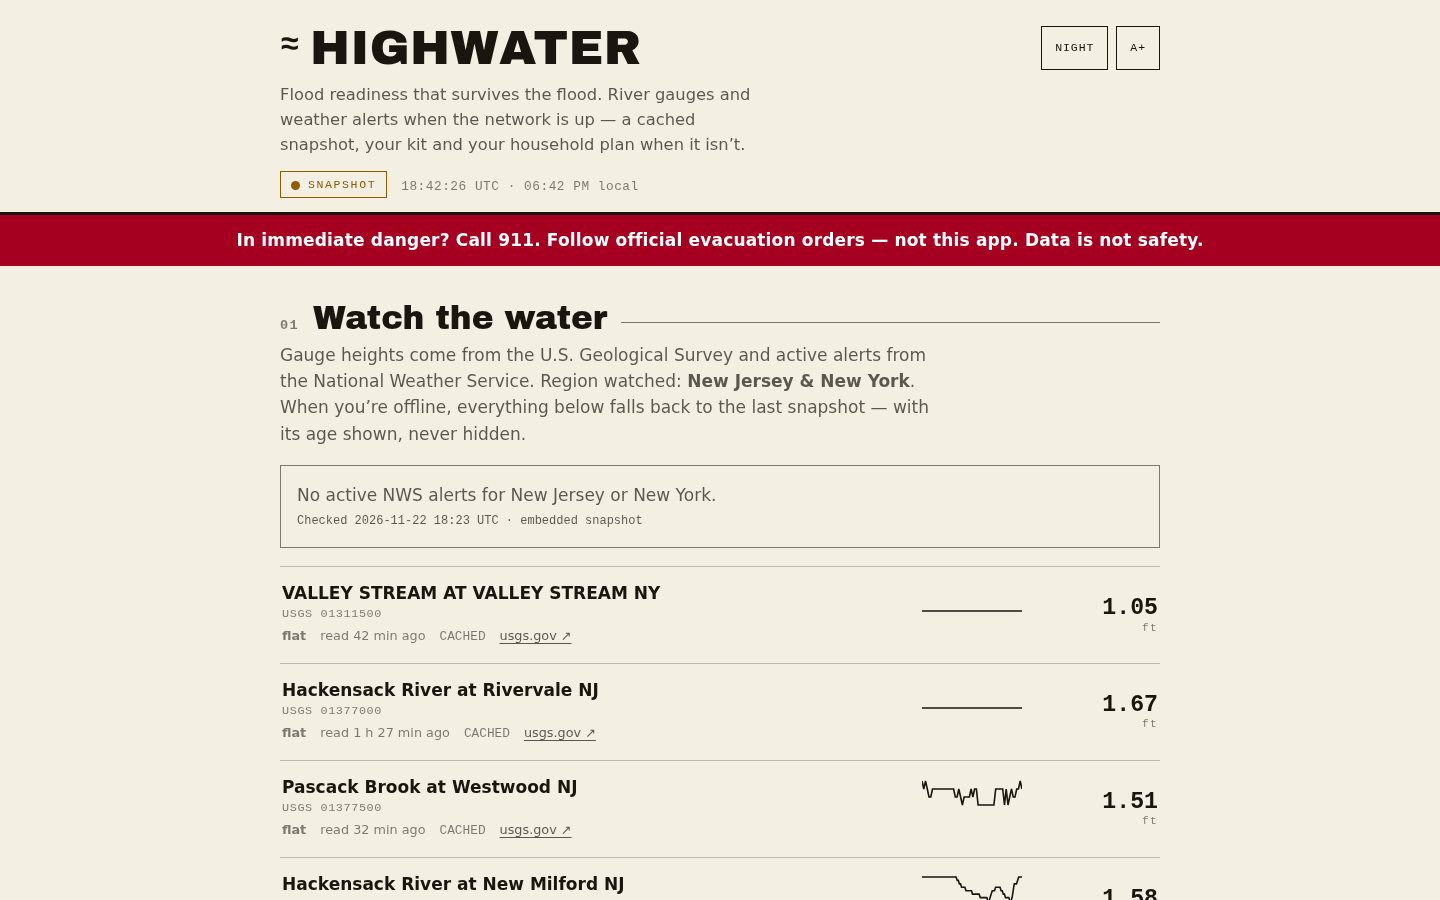
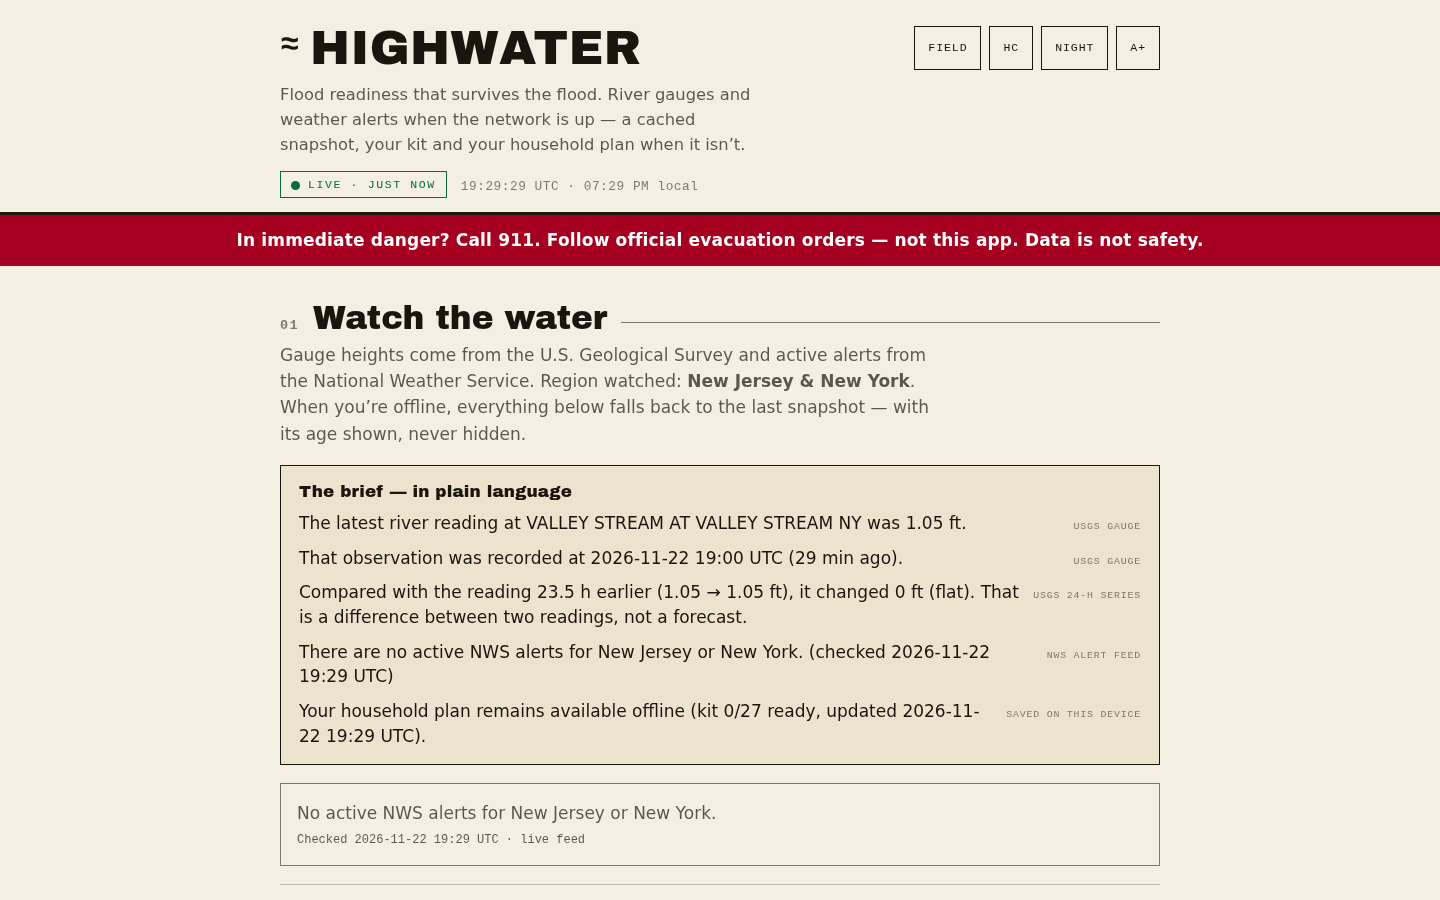
docs + evidence: Run 4 (77/77), live offline-reload verification record, updated screenshots
results.md records the honest sequence: Run 3 (75/75) -> live browser
testing caught the plan-restore bug -> fix -> Run 4 (77/77) with W30/W31.
README matrix updated with verified offline-reload evidence and remaining
gaps. Screenshots: 05-fieldmode, 06-offline-reload, refreshed 01/03.

diff --git a/README.md b/README.md
@@ -71,8 +71,12 @@ public domain data).
   independent inspection, a 10-test regression suite (R1–R10) was added covering
   feed verification and per-gauge liveness: Run 2 is **46/46** (first execution
   45/46 — R2 caught a real gap, the validator was strengthened, re-run passed).
-  The v1.2 competitive upgrades added a 29-test suite (W1–W29): Run 3 is
-  **75/75**, recorded separately. Neither later suite is claimed as part of the
+  The v1.2 competitive upgrades added a 31-test suite (W1–W31): Runs 3–4 are
+  **75/75** then **77/77**, recorded separately. Live browser testing of the
+  deployed site then caught a real bug no engine test could see (the plan form
+  didn't repopulate after an offline reload, since v1.0) — fixed via the
+  `PLAN_FIELDS` mapping, verified with a genuine network-cut reload, and
+  covered by W30/W31. Neither later suite is claimed as part of the
   preregistered run.
 - Real data embedded at build time: snapshot taken 2026-11-22 18:23 UTC.
 
@@ -94,8 +98,8 @@ actual results and judge preferences decide that.
 | --- | --- | --- | --- | --- |
 | WaterMark | Environmental data provenance | Source-and-timestamp on every line: briefing, per-gauge `read X ago`, LIVE/CACHED per gauge, coverage labels for non-NJ/NY gauges, "can/cannot establish" panel | W14–W23 pass | No multi-feed environmental coverage beyond USGS+NWS |
 | Resili-Net | End-to-end humanitarian workflow | Household readiness journey in one page, no registration: contact → meeting place → needs → kit → water target → pocket card → print; persists offline | T4/T6/T7, W24–W29 pass | No multi-agency coordination features (by design) |
-| FindThem | Mobile emergency usefulness | Field Mode: 320px, contact/meeting/needs/water/essentials/saved readings with ages, cached alerts, zero network calls | engine tests + syntax/id checks pass | Not yet verified on a physical phone in a real offline reload |
-| Shelf Check | Published, reproducible tests | `scripts/hw_tests.js` in-repo, three separately recorded runs, pre-registered bars, honest failure history | 75/75 (36/10/29) | No CI pipeline; browser-level (DOM) tests not automated |
+| FindThem | Mobile emergency usefulness | Field Mode: 320px, contact/meeting/needs/water/essentials/saved readings with ages, cached alerts, zero network calls | engine tests + syntax/id checks pass; genuine offline reload verified in a desktop browser (network cut + reload, plan restored — screenshots/06) | Not yet verified on a physical phone |
+| Shelf Check | Published, reproducible tests | `scripts/hw_tests.js` in-repo, four separately recorded runs, pre-registered bars, honest failure history — including a live-testing bug catch | 77/77 (36/10/31) | No CI pipeline; browser-level (DOM) tests not automated |
 | PlainSpeak | Readable, verified language | Plain-language briefing with source on every sentence; unknowns named; failed checks say "could not verify" | W14–W21 pass | No second UI language; no human comprehension review yet |
 | Shortfall | Transparent deterministic arithmetic | Water target shown as a formula with source and limits; exact what-changed math with exact intervals | W1–W13 pass | No additional calculators beyond water |
 | Strobeproof | Accessibility engineering | Keyboard flow incl. Esc/field toggle, focus-visible, 44px targets, HC/night/large-text modes, reduced motion, semantic HTML + live regions | manual audit of the shipped markup | No NVDA/VoiceOver walkthrough or axe-core run yet — not claimed |

diff --git a/results.md b/results.md
@@ -58,4 +58,34 @@ valid). The app-layer script block was also syntax-checked with Node
 the W suite: 29/29, no code changed after the run. The W suite is NOT
 claimed as part of Run 1 or Run 2.
 
+**Run 4 — 2026-11-22 19:37 UTC (v1.2.1, plan-restore fix): 77 passed, 0 failed.**
+
+Live browser testing of the deployed site (agent-browser/Playwright,
+https://mir-ashiq.github.io/highwater/) then caught a real bug the engine
+suite could not see: after an offline reload the plan form came up empty
+even though the plan was correctly saved in localStorage — the restore loop
+indexed `state.plan` by element id (`pName`) while the saved plan stores
+plan keys (`contactName`), and the next keystroke would have overwritten
+the saved plan with the empty form. This bug existed since v1.0. Fixed by
+routing the restore through a single engine mapping, `PLAN_FIELDS`
+(id → plan key), with two new tests: W30 (mapping covers every text input
+with a real plan key) and W31 (the shipped file uses the mapping, not the
+old id-indexed loop). Re-run: **77/77** (preregistered 36/36, regression
+10/10, competitive upgrades 31/31).
+
+Browser verification performed on the deployed v1.2.1, recorded as executed:
+1. Fresh load: v1.2.1 shell, live USGS fetch working (VALLEY STREAM
+   observation timestamped 19:00 UTC, minutes old), NWS check verified
+   ("No active NWS alerts … Checked 2026-11-22 19:24 UTC"), 6 gauges with
+   per-gauge "changed X ft / Y h" lines, briefing + water planner rendering.
+2. Service-worker update: a browser holding the v1.1.0 install served the
+   cached old shell once, background-revalidated, and served v1.2.x on the
+   next load — the documented update strategy, observed working.
+3. Genuine offline reload (network cut, then reload): page served from the
+   service worker, net pill "OFFLINE · CACHED", 6 gauges from cached data
+   with ages, and — after the fix — the full typed plan (contact, phone,
+   meeting place, needs) restored into the form, rendered in the plan panel
+   and the pocket card. Screenshots: `screenshots/05-fieldmode.png`,
+   `screenshots/06-offline-reload.png`.
+
 
